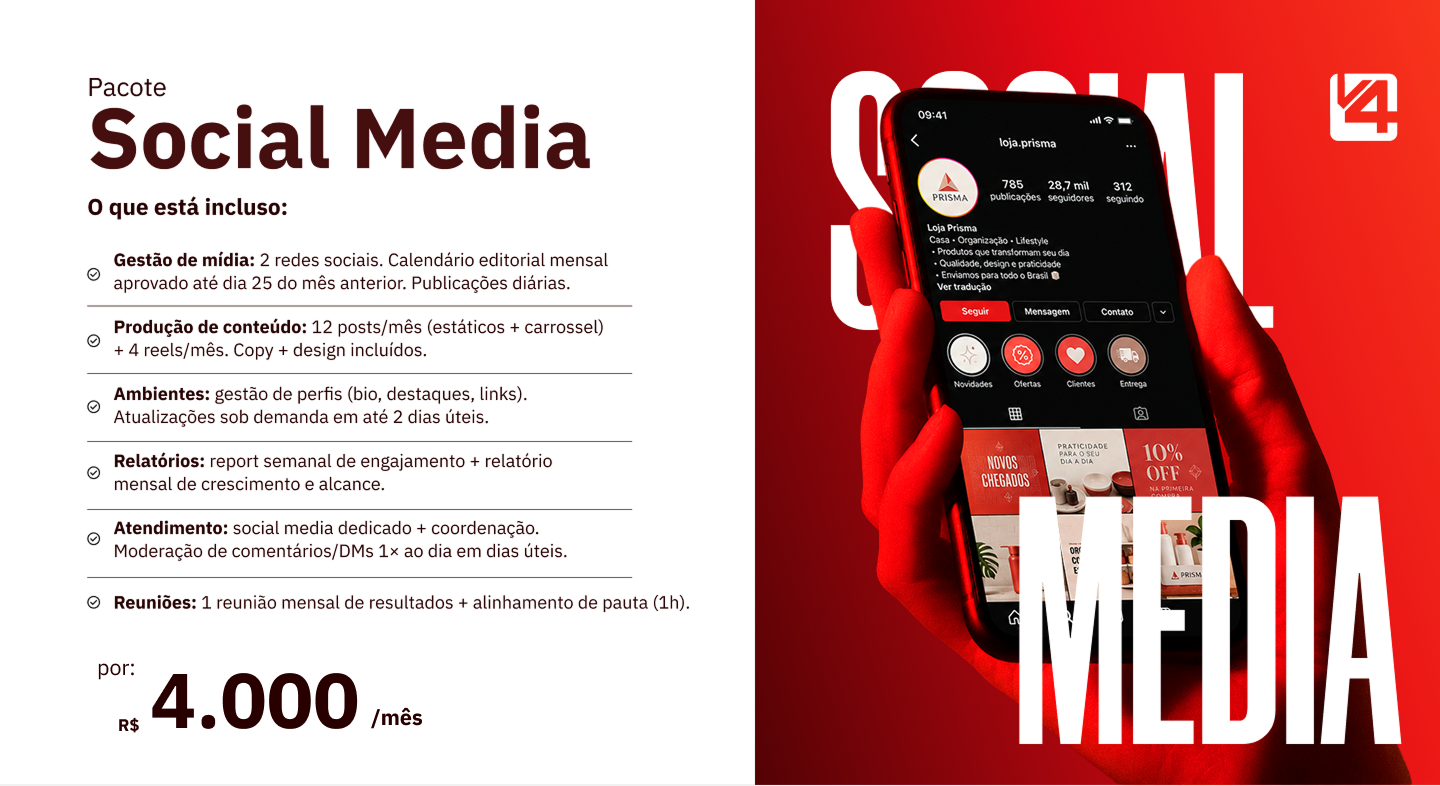
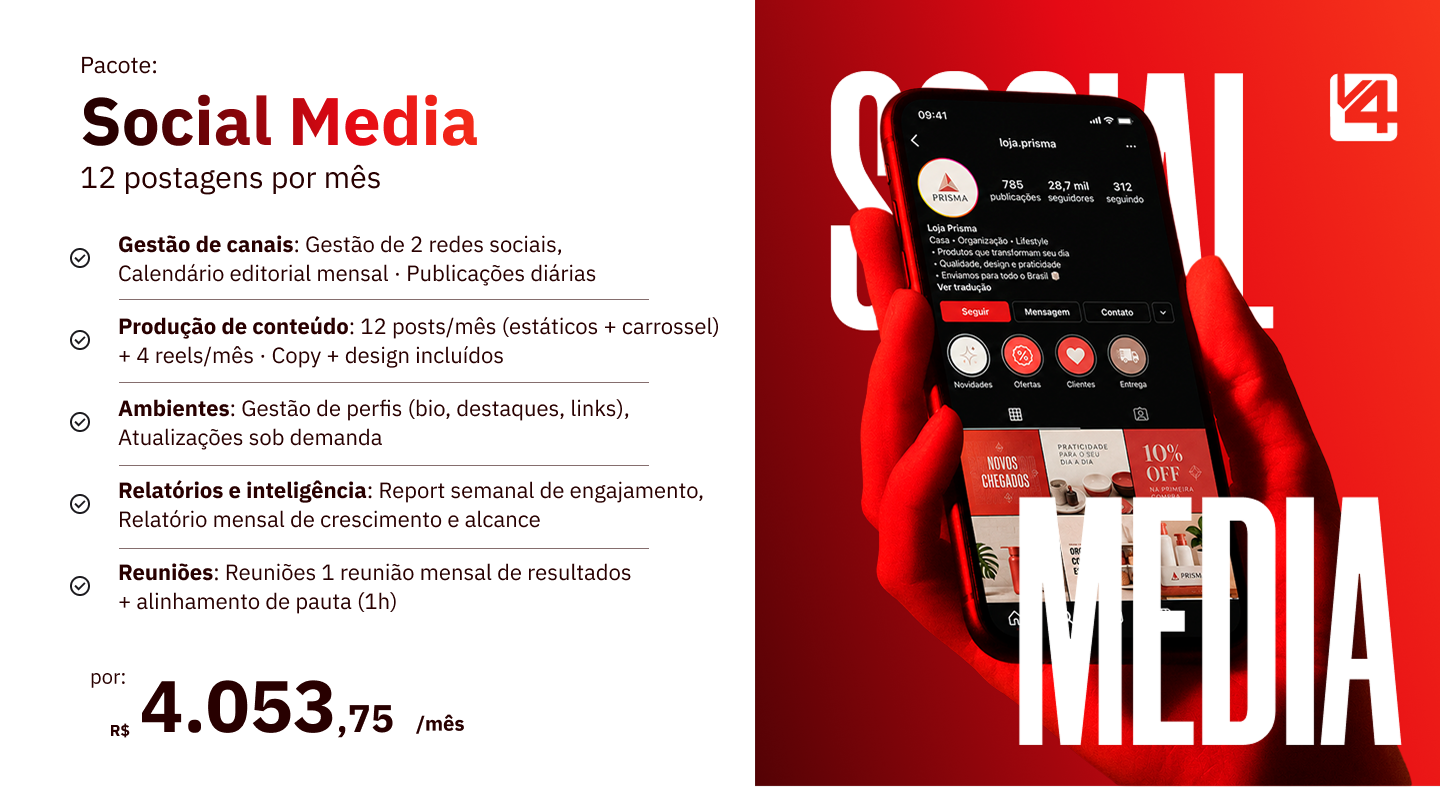
page-2555

diff --git a/Estruturacao-Estrategica/index.html b/Estruturacao-Estrategica/index.html
@@ -927,6 +927,8 @@ h1:where(.wp-block-heading).has-background,h2:where(.wp-block-heading).has-backg
   /* Tokens de espaçamento vertical pra padronização entre seções */
   --ee-pad-y-default: clamp(48px, 7vh, 96px);
   --ee-pad-y-compact: clamp(40px, 6vh, 80px);
+  /* Respiro vertical CONSISTENTE entre as seções de conteúdo (ajuste aqui pra mudar tudo) */
+  --ee-section-y: clamp(56px, 8vh, 110px);
   --ee-pad-x: clamp(1.5rem, -0.556rem + 5.6716vw, 6.25rem);
   /* Largura máxima do conteúdo — reduzida pra centralizar melhor em telas compartilhadas */
   --ee-max-width: 1440px;
@@ -1229,6 +1231,12 @@ footer .wp-block-group.has-black-background-color {
   /* Crescer: altura compacta (conteúdo é absoluto, então defino min-height explícito;
      sem isso a regra height:100vh acima a deixava ocupando a tela inteira). */
   #top > #crescer { height: auto; min-height: clamp(360px, 46vh, 540px); }
+  /* Definição (o que é/não é) + Estrutura (carrossel 3D): altura natural pra controlar os gaps
+     (como slides centralizados, o espaço vazio criava gap demais entre elas). */
+  #top > #definicao,
+  #top > #estrutura { height: auto; min-height: 0; max-height: none; }
+  #top > #definicao { padding-bottom: clamp(64px, 8vh, 120px); }
+  #top > #estrutura { padding-top: clamp(48px, 6vh, 96px); padding-bottom: clamp(64px, 9vh, 130px); }
   /* Cases: altura natural, cards full-bleed 50/50 colados na base (sem gap pra ecossistema). */
   #top > #cases {
     height: auto; min-height: 0; max-height: none; display: block;
@@ -1256,6 +1264,14 @@ footer .wp-block-group.has-black-background-color {
     justify-content: center;
     padding-top: var(--ee-pad-y-default);
     padding-bottom: var(--ee-pad-y-default);
+  }
+  /* ===== Respiro CONSISTENTE entre as seções de conteúdo (sobrescreve os paddings variados) ===== */
+  #top > #reconhecimento, #top > #clientes,
+  #top > #definicao, #top > #estrutura,
+  #top > #recap, #top > #garantia, #top > #ancoragem,
+  #top > #precos, #top > #proposta {
+    padding-top: var(--ee-section-y);
+    padding-bottom: var(--ee-section-y);
   }
 }
 
@@ -3244,7 +3260,7 @@ body[data-sales-model] [data-depends-on-sales-model] { display: revert; }
   margin: 0 auto;
   width: 100%;
 }
-.ee-sim__head { max-width: 820px; margin: 0 0 clamp(32px, 5vh, 56px); }
+.ee-sim__head { max-width: 820px; margin: 0 auto clamp(32px, 5vh, 56px); text-align: center; }
 .ee-sim__title {
   font-family: 'IBM Plex Sans', sans-serif;
   font-size: clamp(28px, 3vw, 48px);
@@ -3371,6 +3387,7 @@ body[data-sales-model] [data-depends-on-sales-model] { display: revert; }
   color: #280000;
   letter-spacing: -0.015em;
   line-height: 1.3;
+  text-align: center;
 }
 .ee-sim__hook strong { font-weight: 700; }
 .ee-sim__hook-dots { color: #FB2E0A; font-weight: 700; }
@@ -3844,7 +3861,7 @@ body[data-sales-model] [data-depends-on-sales-model] { display: revert; }
   font-size: clamp(28px, 3vw, 48px);
   font-weight: 400;
   color: #FFFFFF;
-  text-align: left;
+  text-align: center;
   margin: 0 0 clamp(28px, 3.6vh, 48px);
   letter-spacing: -0.02em;
   line-height: 1.15;
@@ -6296,6 +6313,26 @@ body[data-sales-model] [data-depends-on-sales-model] { display: revert; }
 .ee-phases__dot.is-active { background: #FB2E0A; transform: scale(1.25); }
 @media (prefers-reduced-motion: reduce) { .ee-phases__needle, .ee-phases__nav, .ee-phases__dot { transition: none; } }
 @media (max-width: 919px) { .ee-phases__title { text-align: center; } .ee-phases__bullets { align-items: flex-start; max-width: 420px; margin: 0 auto; } }
+/* Animações da seção Fases: entrada (stagger) + troca de slide */
+@keyframes ee-phases-textin { from { opacity: 0; transform: translateY(8px); } to { opacity: 1; transform: none; } }
+.ee-phases.is-armed .ee-phases__title,
+.ee-phases.is-armed .ee-phases__bullets li { opacity: 0; transform: translateY(26px); transition: opacity 0.7s cubic-bezier(0.23,1,0.32,1), transform 0.7s cubic-bezier(0.23,1,0.32,1); }
+.ee-phases.is-armed .ee-phases__carousel { opacity: 0; transform: translateY(28px) scale(0.985); transition: opacity 0.8s cubic-bezier(0.23,1,0.32,1), transform 0.8s cubic-bezier(0.23,1,0.32,1); }
+.ee-phases.is-revealed .ee-phases__title { opacity: 1; transform: none; transition-delay: 0.05s; }
+.ee-phases.is-revealed .ee-phases__bullets li { opacity: 1; transform: none; }
+.ee-phases.is-revealed .ee-phases__bullets li:nth-child(1) { transition-delay: 0.16s; }
+.ee-phases.is-revealed .ee-phases__bullets li:nth-child(2) { transition-delay: 0.28s; }
+.ee-phases.is-revealed .ee-phases__bullets li:nth-child(3) { transition-delay: 0.40s; }
+.ee-phases.is-revealed .ee-phases__bullets li:nth-child(4) { transition-delay: 0.52s; }
+.ee-phases.is-revealed .ee-phases__carousel { opacity: 1; transform: none; transition-delay: 0.22s; }
+.ee-phases__card.is-switching .ee-phases__step,
+.ee-phases__card.is-switching .ee-phases__name,
+.ee-phases__card.is-switching .ee-phases__metrics,
+.ee-phases__card.is-switching .ee-phases__desc { animation: ee-phases-textin 0.42s cubic-bezier(0.23,1,0.32,1); }
+@media (prefers-reduced-motion: reduce) {
+  .ee-phases.is-armed .ee-phases__title, .ee-phases.is-armed .ee-phases__bullets li, .ee-phases.is-armed .ee-phases__carousel { opacity: 1; transform: none; transition: none; }
+  .ee-phases__card.is-switching .ee-phases__step, .ee-phases__card.is-switching .ee-phases__name, .ee-phases__card.is-switching .ee-phases__metrics, .ee-phases__card.is-switching .ee-phases__desc { animation: none; }
+}
 </style>
 <style id="v4-proposal-select-styles">
   /* ===== Botão "Selecionar este pacote" nos cards ===== */
@@ -7153,7 +7190,7 @@ body[data-sales-model] [data-depends-on-sales-model] { display: revert; }
               <line x1="110" y1="40" x2="110" y2="52" transform="rotate(72 110 110)"/>
               <line x1="110" y1="40" x2="110" y2="52" transform="rotate(90 110 110)"/>
             </g>
-            <polygon class="ee-phases__needle" points="110,32 105.5,110 114.5,110" fill="#280000" style="transform:rotate(-67deg)"/>
+            <polygon class="ee-phases__needle" points="110,32 105.5,110 114.5,110" fill="#280000" style="transform:rotate(-90deg)"/>
             <circle cx="110" cy="110" r="8.5" fill="#280000"/>
             <circle cx="110" cy="110" r="3.5" fill="#FFFFFF"/>
           </svg>
@@ -7186,27 +7223,52 @@ body[data-sales-model] [data-depends-on-sales-model] { display: revert; }
   ];
   var i = 0;
   var needle = sec.querySelector('.ee-phases__needle');
+  var card   = sec.querySelector('.ee-phases__card');
   var elStep = sec.querySelector('.ee-phases__step');
   var elName = sec.querySelector('.ee-phases__name');
   var elMet  = sec.querySelector('.ee-phases__metrics');
   var elDesc = sec.querySelector('.ee-phases__desc');
   var dots   = sec.querySelectorAll('.ee-phases__dot');
-  function render() {
+  var reduce = window.matchMedia('(prefers-reduced-motion: reduce)').matches;
+  var revealed = reduce;   // ponteiro só faz o "sweep" quando a seção entra na tela
+  function render(animateText) {
     var p = PHASES[i];
-    if (needle) needle.style.transform = 'rotate(' + p.angle + 'deg)';
+    if (needle) needle.style.transform = 'rotate(' + (revealed ? p.angle : -90) + 'deg)';
     if (elStep) elStep.textContent = p.step;
     if (elName) elName.textContent = p.name;
     if (elMet)  elMet.textContent  = p.metrics;
     if (elDesc) elDesc.textContent = p.desc;
     for (var d = 0; d < dots.length; d++) dots[d].classList[d === i ? 'add' : 'remove']('is-active');
+    if (animateText && card && !reduce) {           // crossfade do texto ao trocar de step
+      card.classList.remove('is-switching');
+      void card.offsetWidth;                         // reflow → re-dispara a animação
+      card.classList.add('is-switching');
+    }
   }
-  function go(n) { i = (n % PHASES.length + PHASES.length) % PHASES.length; render(); }
+  function go(n) { i = (n % PHASES.length + PHASES.length) % PHASES.length; render(true); }
   var prev = sec.querySelector('.ee-phases__nav--prev');
   var next = sec.querySelector('.ee-phases__nav--next');
   if (prev) prev.addEventListener('click', function () { go(i - 1); });
   if (next) next.addEventListener('click', function () { go(i + 1); });
   for (var k = 0; k < dots.length; k++) (function (idx) { dots[idx].addEventListener('click', function () { go(idx); }); })(k);
-  render();
+  render(false);
+
+  // Entrada (stagger via CSS) + sweep do ponteiro quando a seção surge na tela
+  if (reduce || !('IntersectionObserver' in window)) {
+    revealed = true; sec.classList.add('is-revealed'); render(false);
+  } else {
+    sec.classList.add('is-armed');
+    var io = new IntersectionObserver(function (entries) {
+      entries.forEach(function (e) {
+        if (!e.isIntersecting) return;
+        sec.classList.add('is-revealed');
+        revealed = true;
+        requestAnimationFrame(function () { if (needle) needle.style.transform = 'rotate(' + PHASES[i].angle + 'deg)'; });
+        io.unobserve(sec);
+      });
+    }, { threshold: 0.25 });
+    io.observe(sec);
+  }
 })();
 </script>
 
@@ -7394,7 +7456,7 @@ body[data-sales-model] [data-depends-on-sales-model] { display: revert; }
 
       <div class="ee-foru__aside">
         <h3 class="ee-foru__headline">Se você se identificou com qualquer uma dessas situações, esse serviço foi <span class="ee-foru__hl">desenhado pra você</span>.</h3>
-        <p class="ee-foru__sub">Analisamos e planejamos cada passo para posicionar sua empresa à frente da concorrência e acelerar o crescimento.</p>
+        <p class="ee-foru__sub">Em 30 dias, você sai com plano, método e ativos prontos pra escalar com direção.</p>
       </div>
     </div>
   </div>
@@ -7443,7 +7505,7 @@ body[data-sales-model] [data-depends-on-sales-model] { display: revert; }
           <h3 class="ee-define__card-title">O que <strong>É</strong></h3>
         </header>
         <ul class="ee-define__list">
-          <li><span class="ee-define__mark" aria-hidden="true"><i data-lucide="check"></i></span>O setup estratégico completo da sua operação de vendas</li>
+          <li><span class="ee-define__mark" aria-hidden="true"><i data-lucide="check"></i></span>Um mapa completo da sua operação de marketing e vendas</li>
           <li><span class="ee-define__mark" aria-hidden="true"><i data-lucide="check"></i></span>Feito uma vez, em 30 dias com início e fim</li>
           <li><span class="ee-define__mark" aria-hidden="true"><i data-lucide="check"></i></span>Ativos prontos pra operar já no Dia 31</li>
           <li><span class="ee-define__mark" aria-hidden="true"><i data-lucide="check"></i></span>Plano de mídia e metas para os próximos 6 meses</li>
@@ -7457,9 +7519,9 @@ body[data-sales-model] [data-depends-on-sales-model] { display: revert; }
           <h3 class="ee-define__card-title">O que <strong>NÃO é</strong></h3>
         </header>
         <ul class="ee-define__list">
-          <li><span class="ee-define__mark" aria-hidden="true"><i data-lucide="x"></i></span>Um diagnóstico em PDF que fica na gaveta</li>
+          <li><span class="ee-define__mark" aria-hidden="true"><i data-lucide="x"></i></span>Um plano que fica na gaveta</li>
           <li><span class="ee-define__mark" aria-hidden="true"><i data-lucide="x"></i></span>Consultoria mensal genérica e sem prazo</li>
-          <li><span class="ee-define__mark" aria-hidden="true"><i data-lucide="x"></i></span>Achismo: aqui o setup é guiado por método</li>
+          <li><span class="ee-define__mark" aria-hidden="true"><i data-lucide="x"></i></span>Achismo: seguimos um método validado</li>
         </ul>
       </article>
 
@@ -8507,7 +8569,7 @@ body[data-sales-model] [data-depends-on-sales-model] { display: revert; }
     // precos e proposta (conteúdo grande — rolam normalmente, sem caber no viewport),
     // simulador (interativo de arrastar — não pode ser escalado por transform),
     // crescer (SVG full-bleed com traçado animado — posicionado, não escalado).
-    var SKIP = { hero: 1, problema: 1, ecossistema: 1, produto: 1, precos: 1, proposta: 1, simulador: 1, crescer: 1, reconhecimento: 1, clientes: 1, ancoragem: 1, garantia: 1, cases: 1, recap: 1 };
+    var SKIP = { hero: 1, problema: 1, ecossistema: 1, produto: 1, precos: 1, proposta: 1, simulador: 1, crescer: 1, reconhecimento: 1, clientes: 1, ancoragem: 1, garantia: 1, cases: 1, recap: 1, definicao: 1, estrutura: 1 };
     var sections = [];
 
     var ro = (typeof ResizeObserver !== 'undefined') ? new ResizeObserver(function () {
@@ -9778,7 +9840,7 @@ document.addEventListener('DOMContentLoaded', function() {
     }
 
     // Social Media (mensal) — mesmo valor usado no gerador de PDF
-    var SOCIAL_PRICE_NUM = 4000;
+    var SOCIAL_PRICE_NUM = 4053.75;
     function parseBRL(txt) {
       var n = String(txt).replace(/[^0-9.,]/g, '').replace(/\./g, '').replace(',', '.');
       return parseFloat(n) || 0;
@@ -10037,7 +10099,7 @@ document.addEventListener('DOMContentLoaded', function() {
     { key: 'cheque6',  label: 'Cheque em 6×',                        disc: 15, aVista: false }
   ];
   var PACK_PRICE_NUM = { s: 6997, m: 9997, l: 16997, xl: 25497 }; // mensal Executar
-  var SOCIAL_PRICE_NUM = 4000;              // Social Media (mensal)
+  var SOCIAL_PRICE_NUM = 4053.75;          // Social Media (mensal)
 
   // Escopo (entregáveis) do adicional Social Media — entra só quando selecionado
   var SOCIAL_ITEMS = [